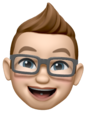
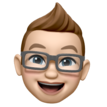
Refactor face images, include 1x and 3x versions, extract into component, re-order when mixins are loaded

diff --git a/site/styles/main.scss b/site/styles/main.scss
@@ -1,6 +1,6 @@
+@import "abstracts/mixins";
 @import "abstracts/variables";
 @import "abstracts/utilities";
-@import "abstracts/mixins";
 
 @import "base/base";
 @import "base/typography";
@@ -9,6 +9,7 @@
 @import "components/lists";
 @import "components/availability";
 @import "components/social-list";
+@import "components/face";
 
 @import "layouts/header";
 @import "layouts/navigation";

diff --git a/site/styles/pages/_about.scss b/site/styles/pages/_about.scss
@@ -15,20 +15,6 @@
     }
   }
 
-  &__face {
-    flex: 0;
-    place-self: center;
-    margin: -2.9rem 2rem 0 1rem;
-    width: 86px;
-
-    @include media(phone) {
-      width: 20vw;
-      align-self: baseline;
-      float: left;
-      margin-top: -.5rem;
-    }
-  }
-
   &__side {
     grid-column: 6 / -1;
 
